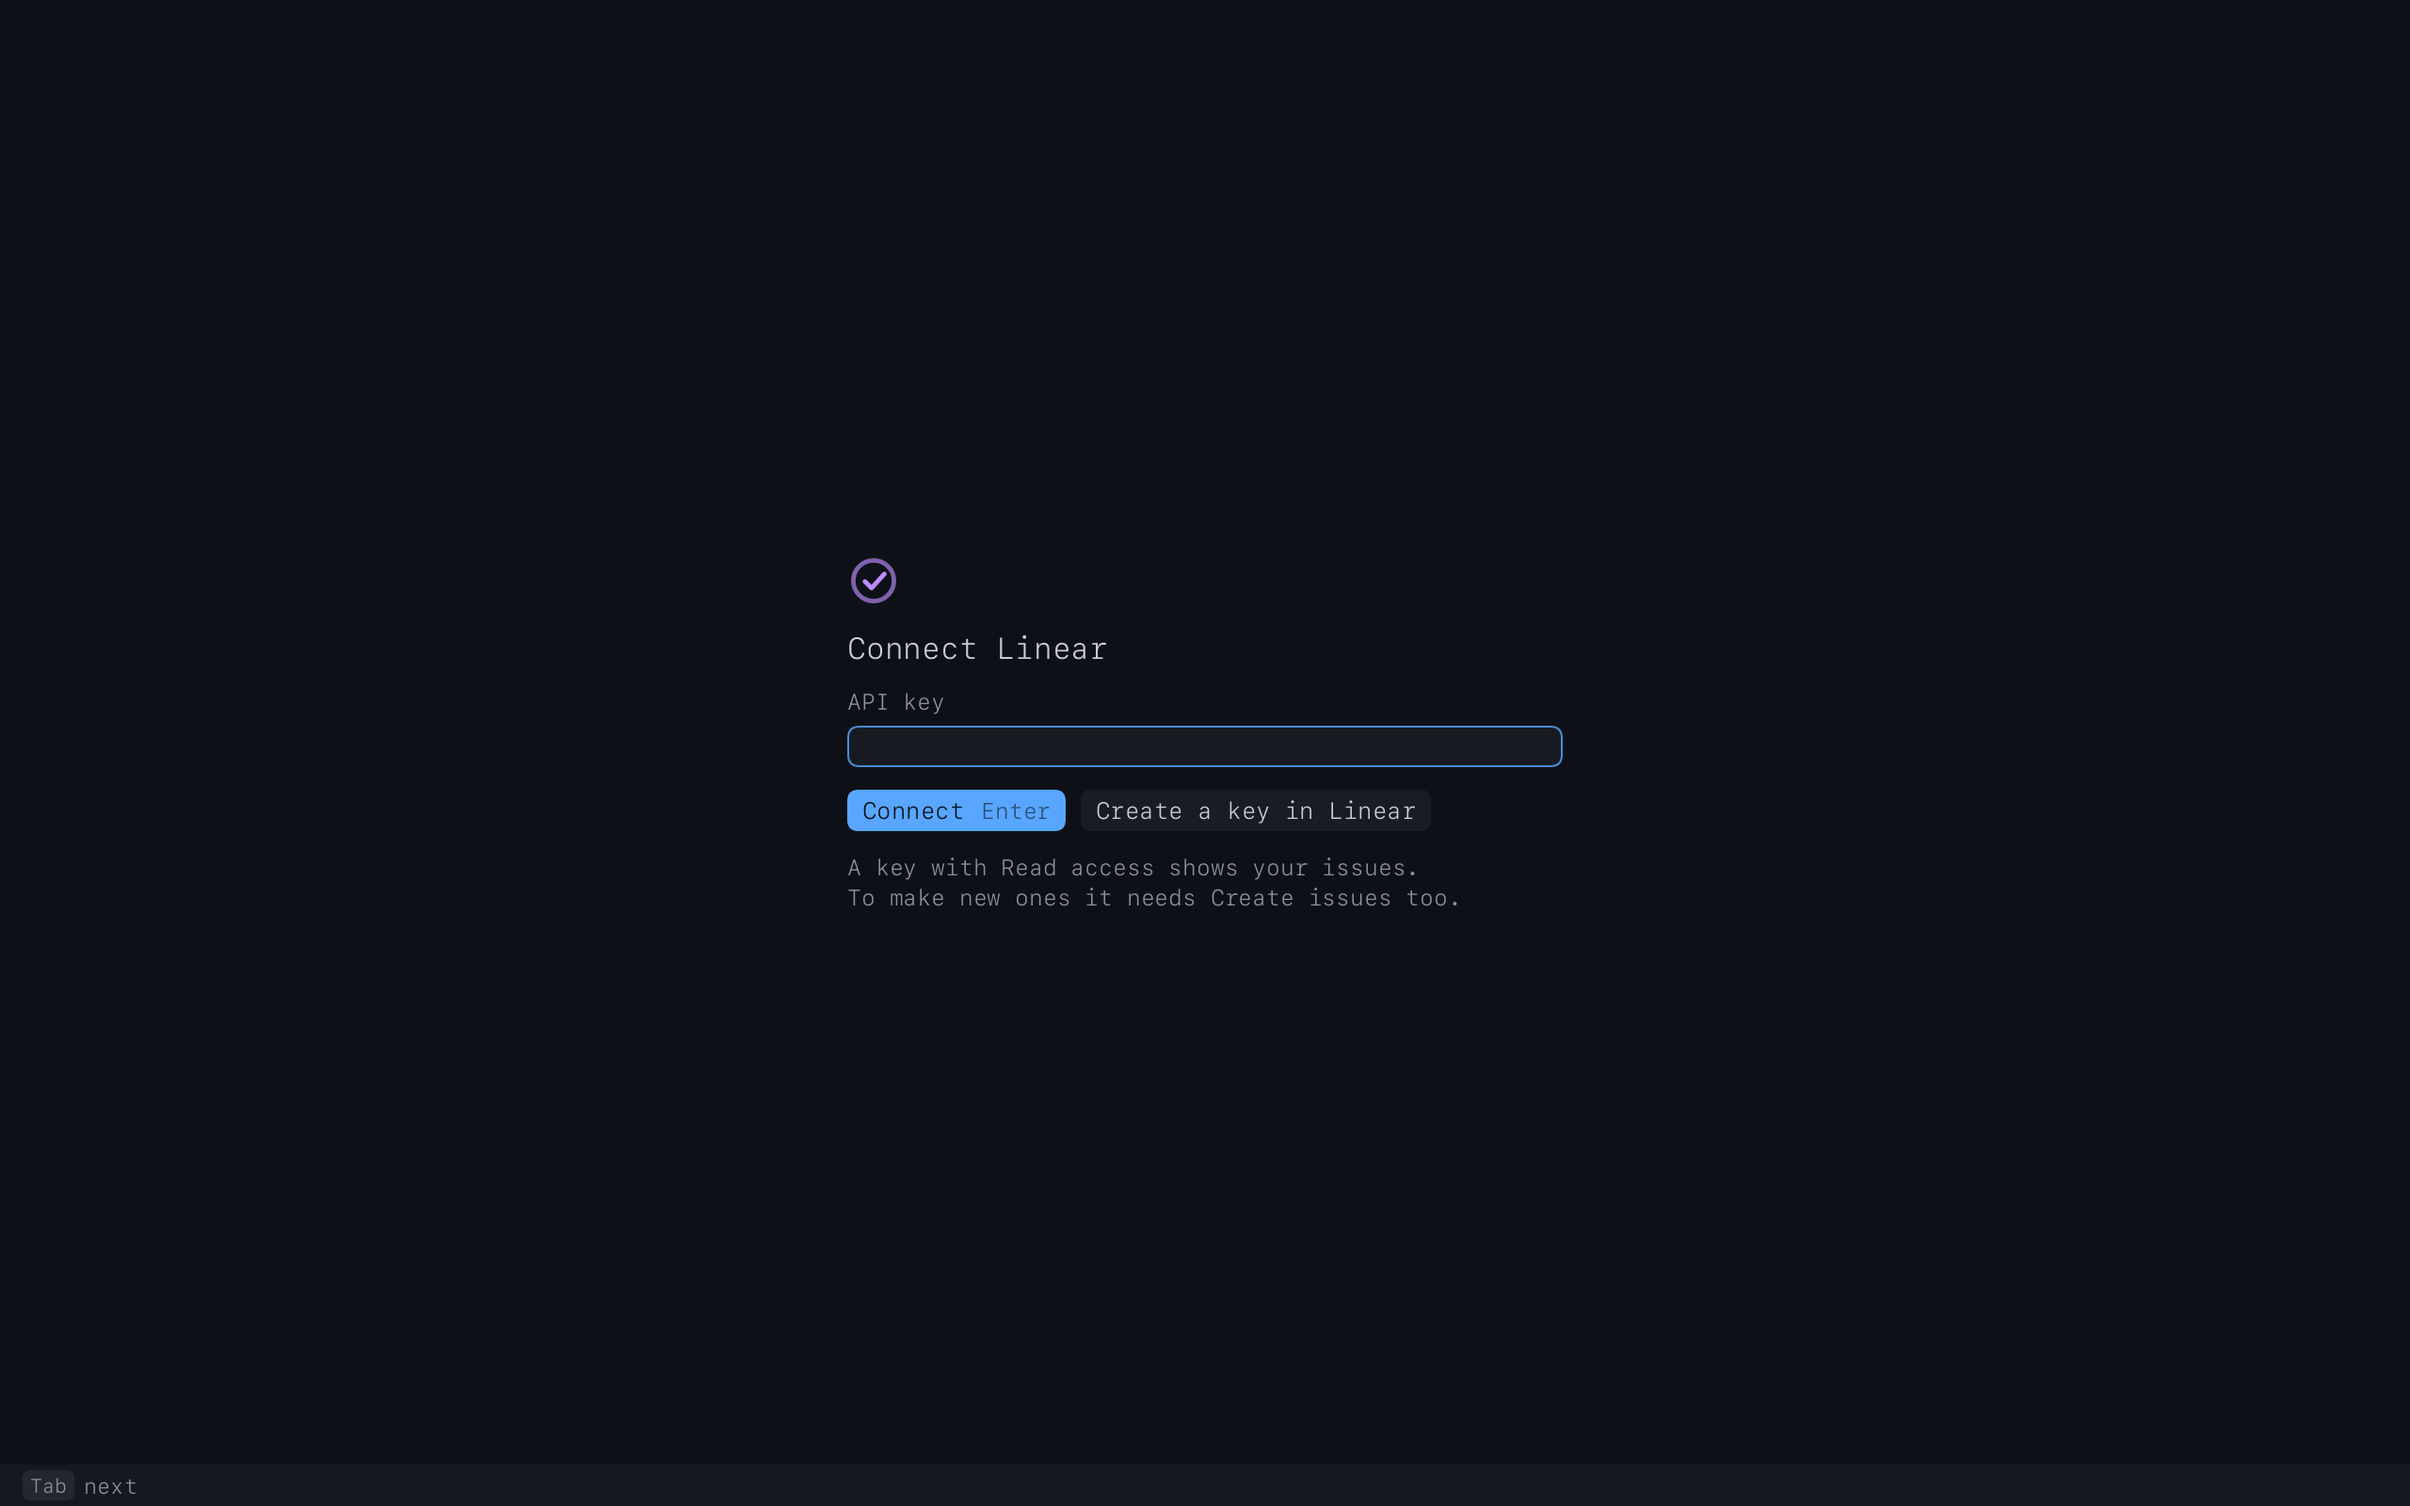
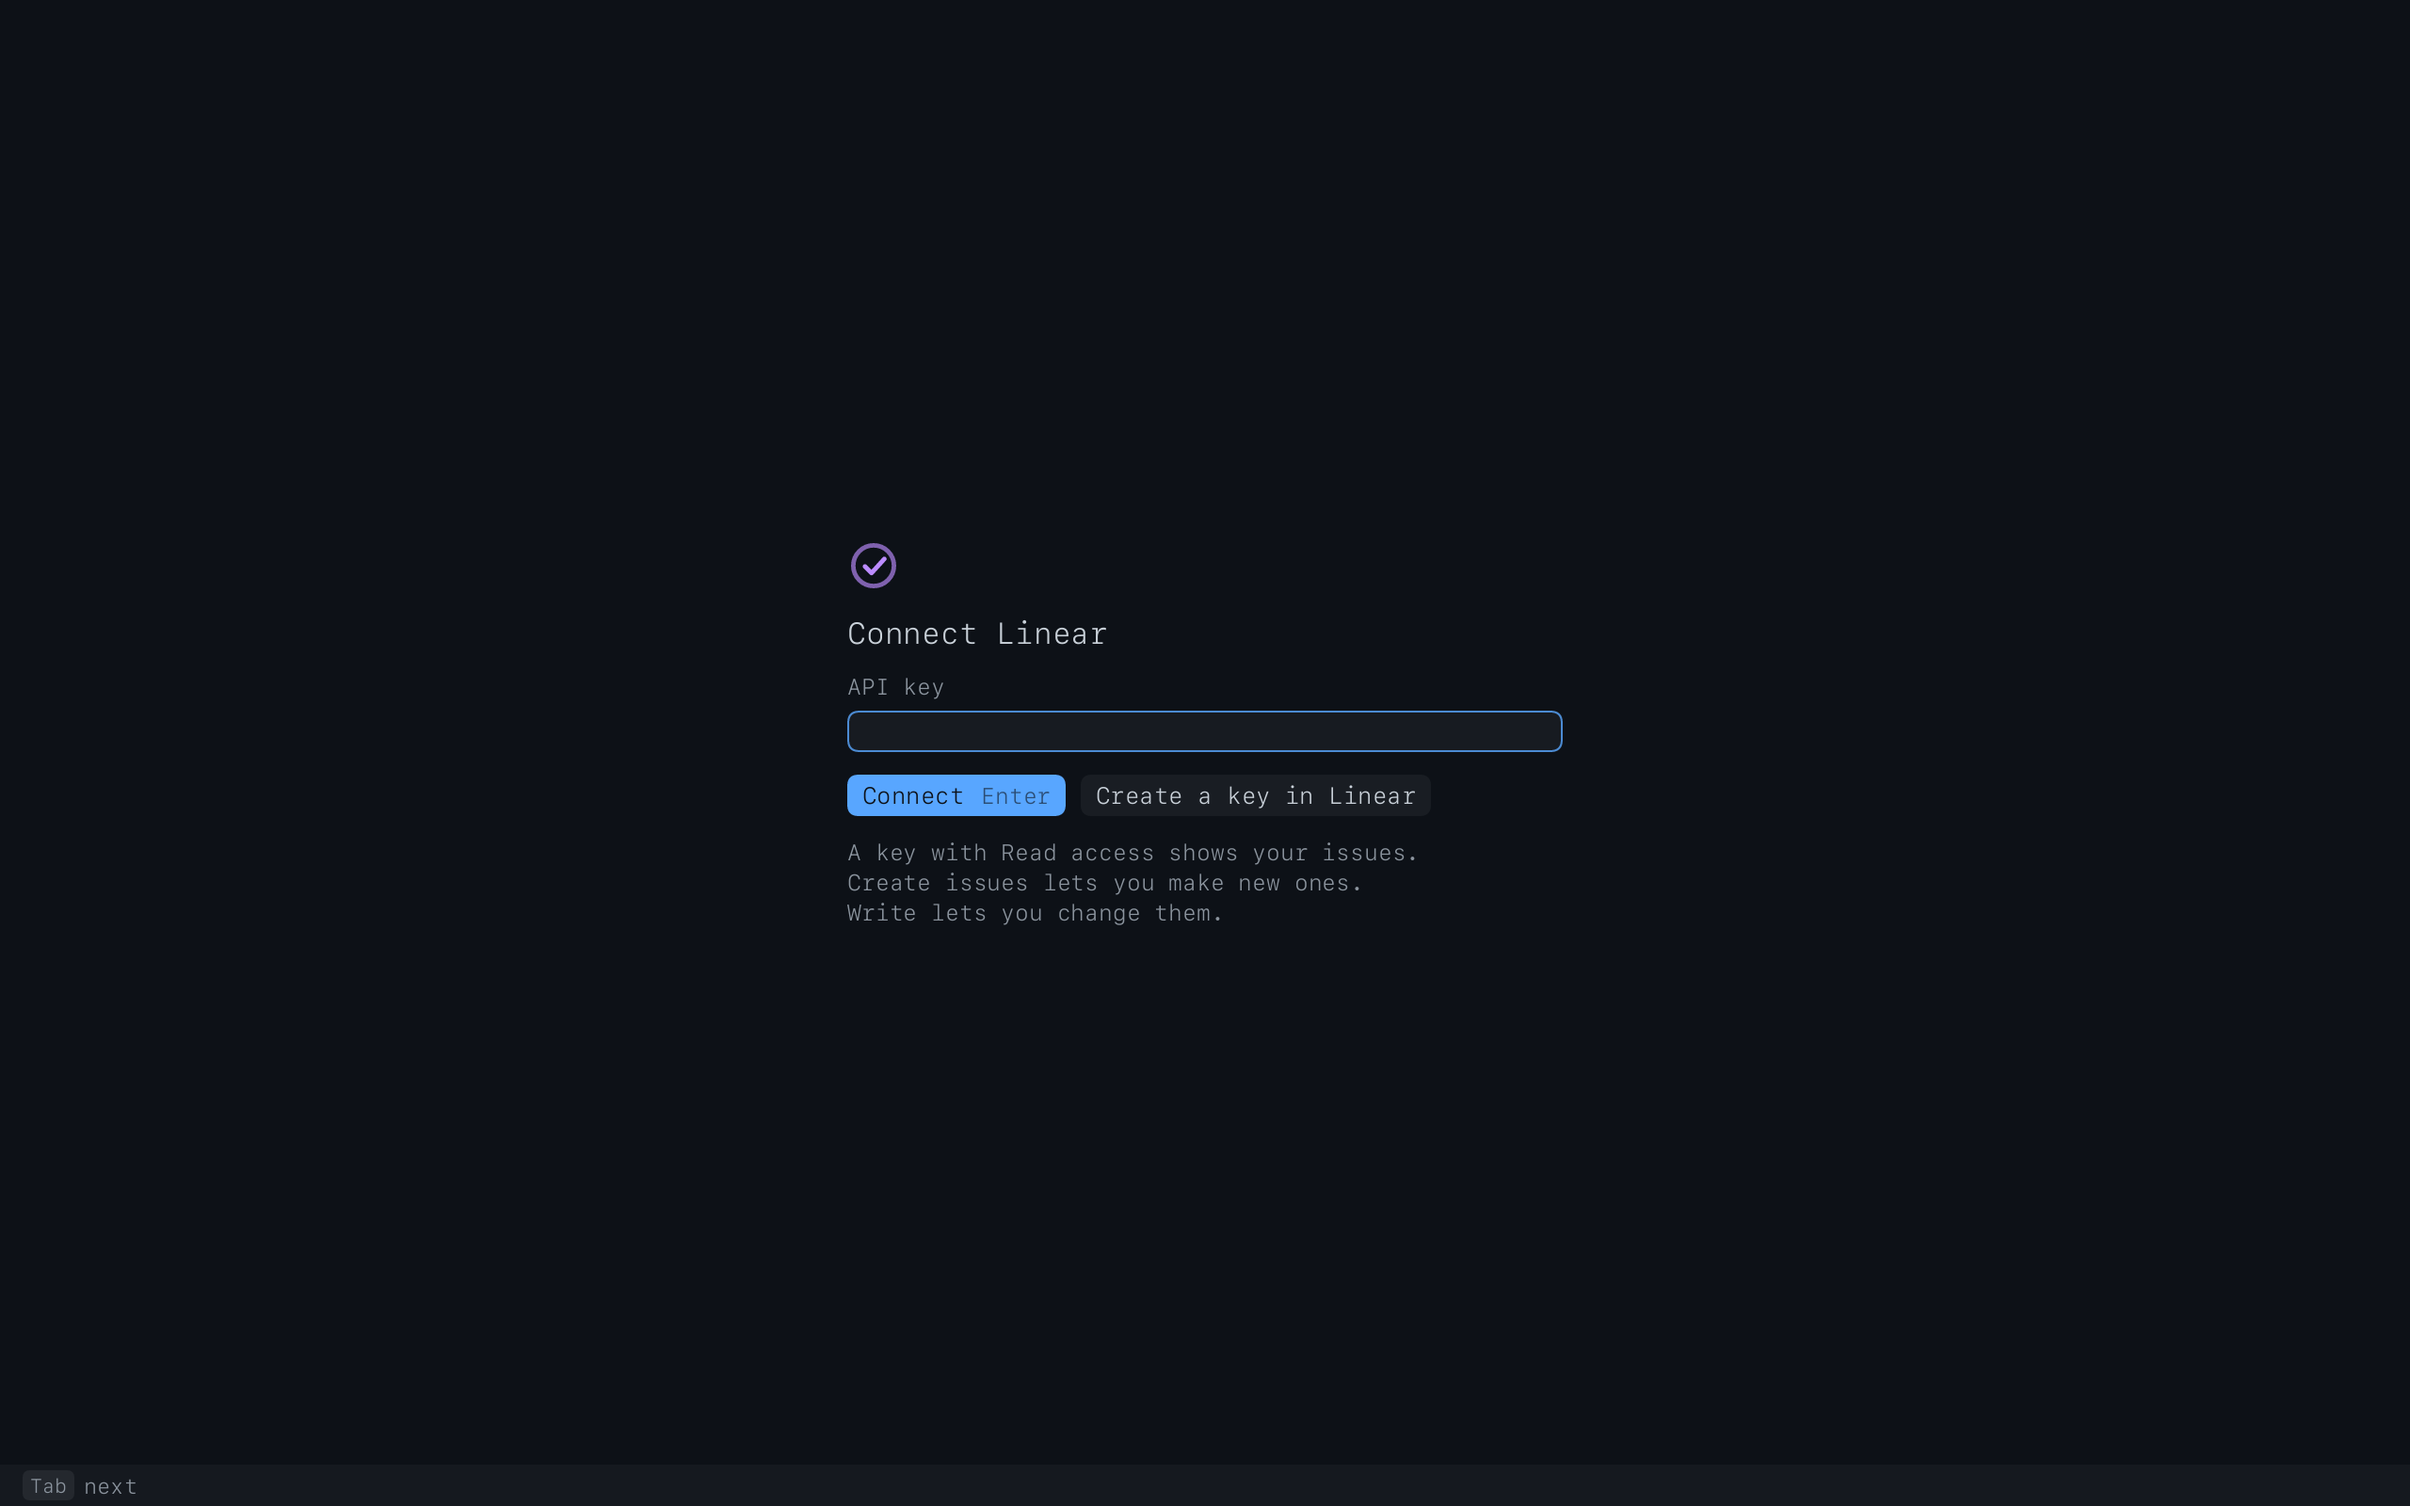
Say on the Connect card that changing issues needs Write, in lines the card holds, and shorten the palette's field words that a narrow pane cut

Changed region(s): [[0.3438, 0.3438, 0.6562, 0.625]]

diff --git a/src/program/page_tests.rs b/src/program/page_tests.rs
@@ -826,10 +826,11 @@ fn without_a_key_the_page_asks_for_one_and_keeps_what_linear_takes() {
         said(&page)
     );
     assert!(
-        page.says("To make new ones it needs Create issues too."),
+        page.says("Create issues lets you make new ones."),
         "{}",
         said(&page)
     );
+    assert!(page.says("Write lets you change them."), "{}", said(&page));
     assert_eq!(
         linear.times("Verify"),
         0,
